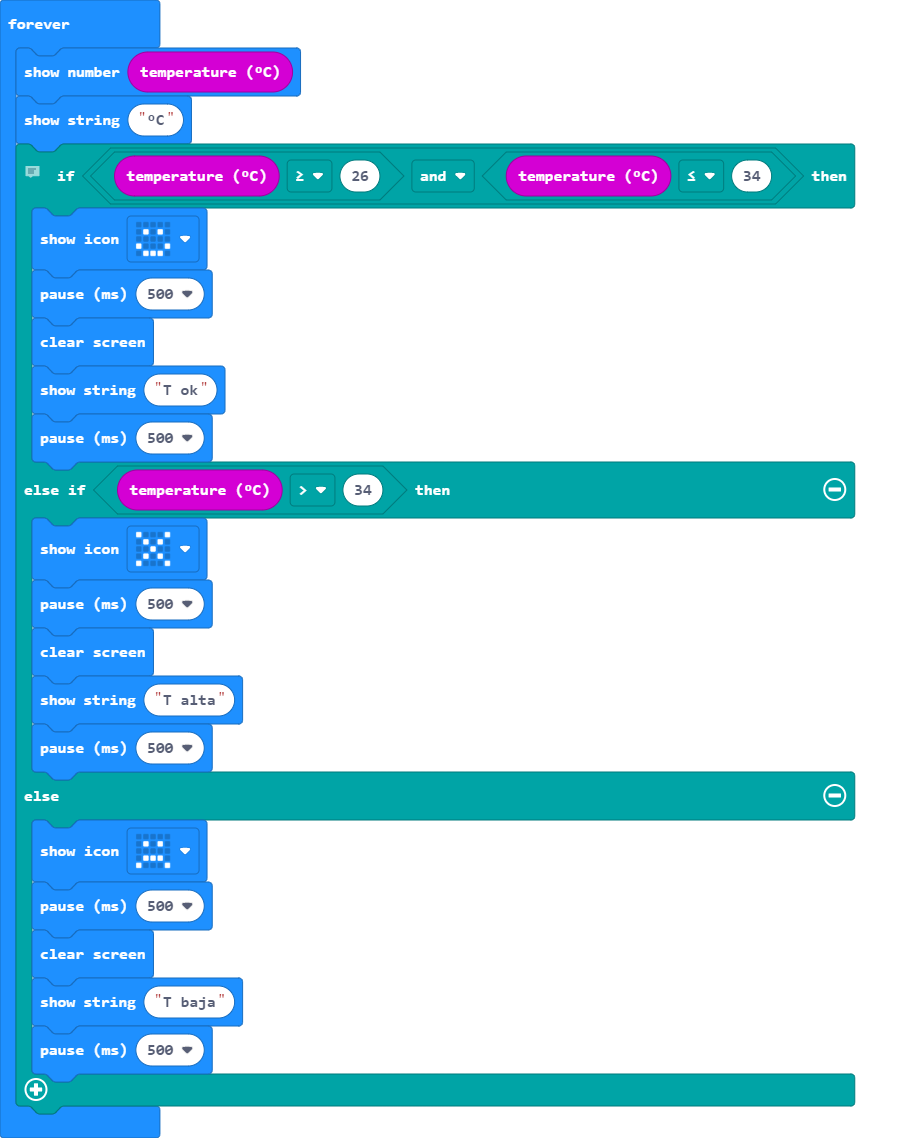
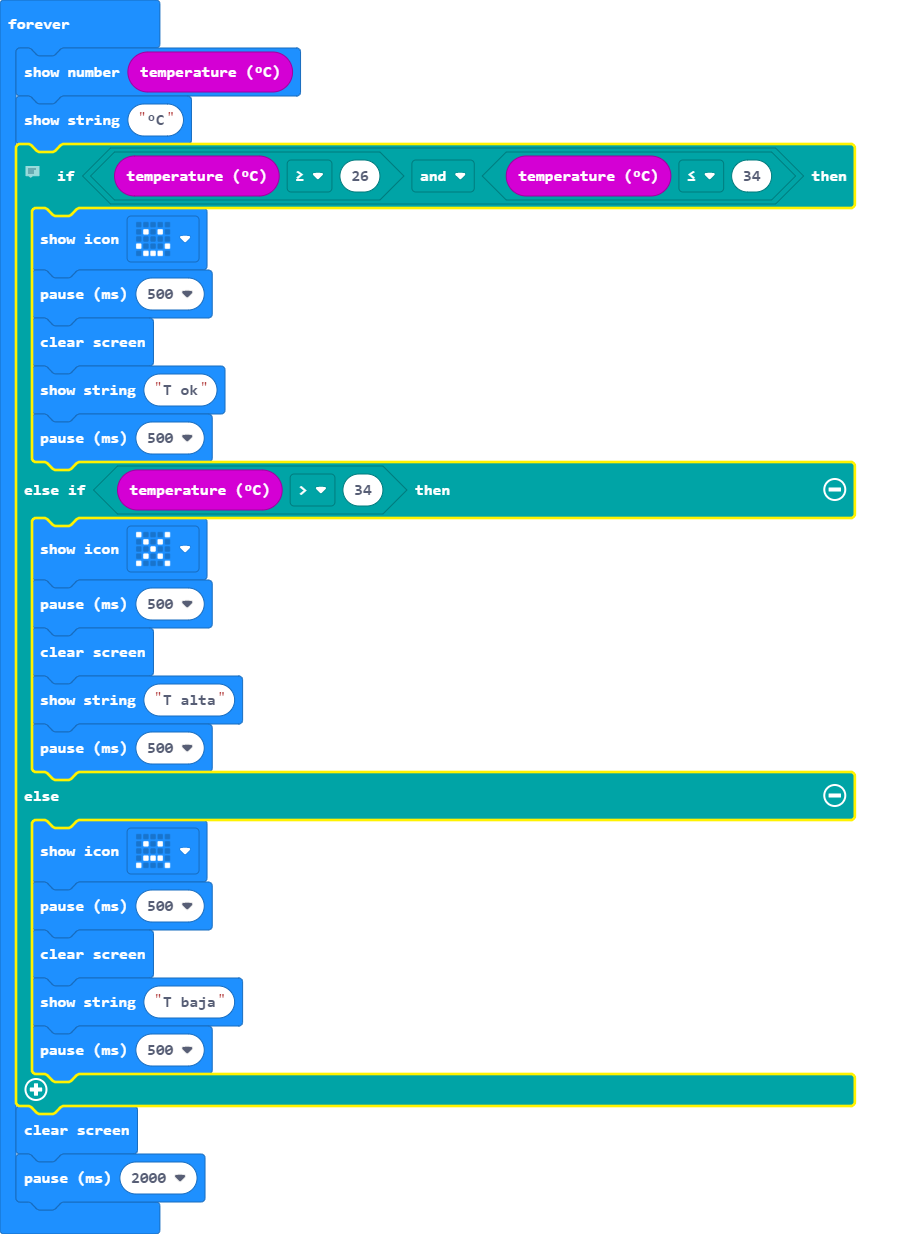
clear screen and 2 seconds delay before start again

diff --git a/main.ts b/main.ts
@@ -21,4 +21,6 @@ basic.forever(function () {
         basic.showString("T baja")
         basic.pause(500)
     }
+    basic.clearScreen()
+    basic.pause(2000)
 })
